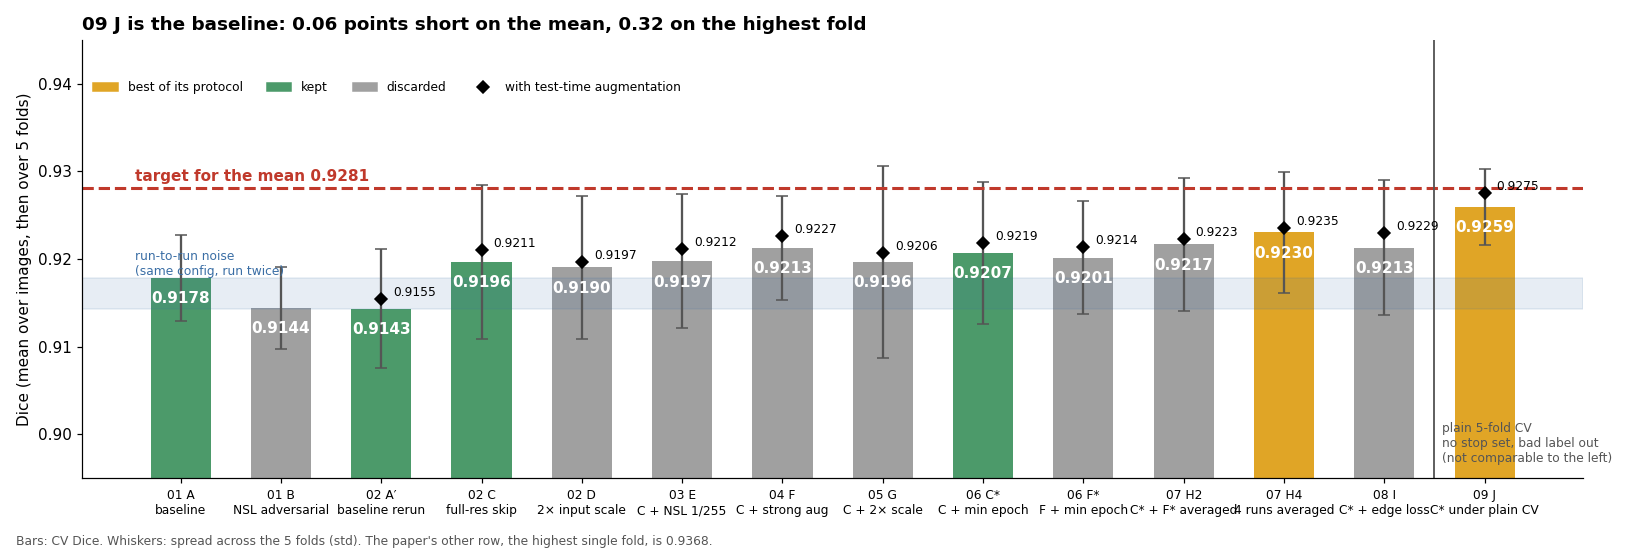
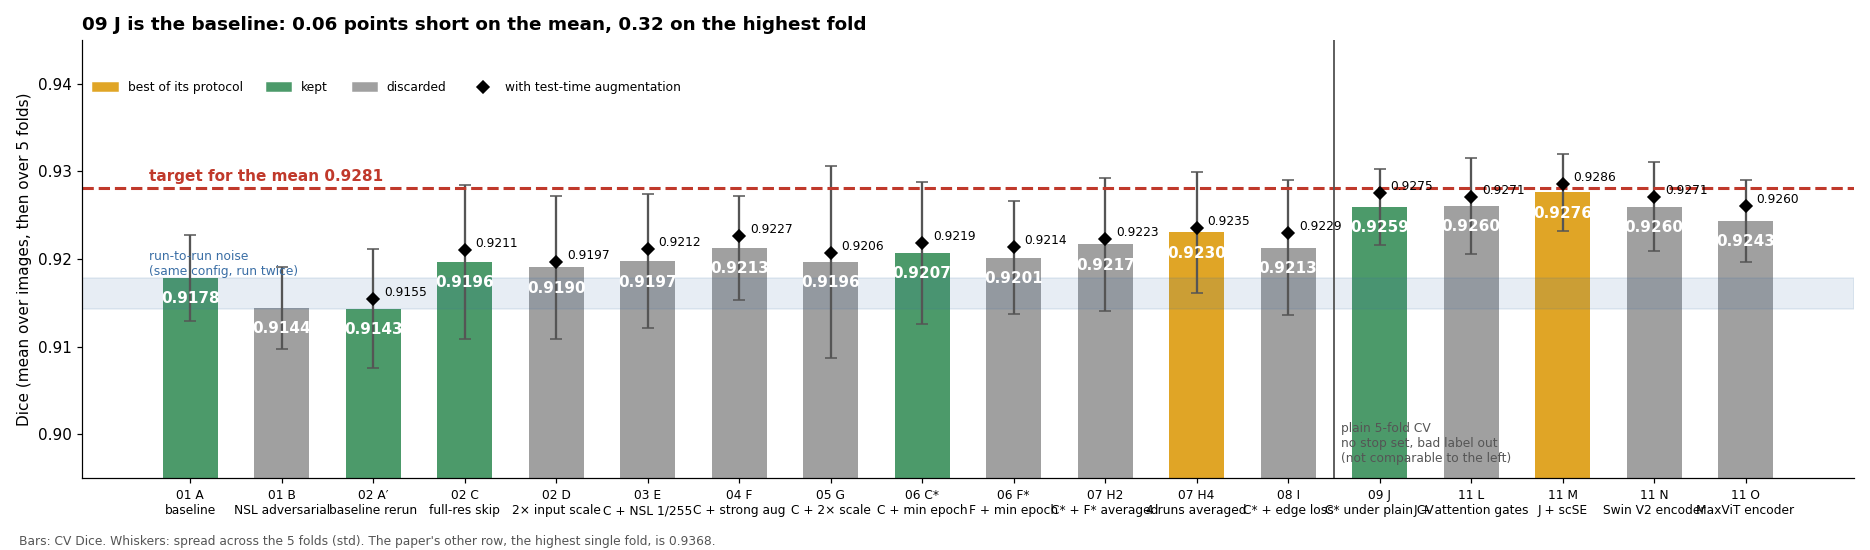
Close spec 11: no kind of attention beats J
Swin V2 encoder: TTA Dice 92.71 / highest 93.50. MaxViT encoder: 92.60 / 93.37.
With the gate and scSE arms, five attention set-ups sit between 92.60 and 92.86,
inside one luck band, so J stays the model. The progress chart now puts the
spec 11 arms with J under plain CV.

diff --git a/reports/make_figures.py b/reports/make_figures.py
@@ -24,7 +24,7 @@ OUT = ROOT / "reports"
 TARGET = 0.9368       # the paper's highest fold, the row the project is aimed at
 TARGET_MEAN = 0.9281  # the paper's mean of five folds
 RESCORES = ("s10-j-per-image",)  # scoring-only reruns of a model already in the charts
-PLAIN_CV = ("s09-plain-cv",)  # plain 5-fold CV, no stop set, bad label out; not comparable with the runs before it
+PLAIN_CV = ("s09-plain-cv", "s11-gate", "s11-scse", "s11-swinv2", "s11-maxvit")  # plain 5-fold CV, no stop set, bad label out; not comparable with the runs before it
 LABELS = {  # slug -> short name for plots
     "s01-base": "01 A\nbaseline",
     "s01-nsl": "01 B\nNSL adversarial",
@@ -40,6 +40,10 @@ LABELS = {  # slug -> short name for plots
     "s07-ens4": "07 H4\n4 runs averaged",
     "s08-hires-edge": "08 I\nC* + edge loss",
     "s09-plain-cv": "09 J\nC* under plain CV",
+    "s11-gate": "11 L\nJ + attention gates",
+    "s11-scse": "11 M\nJ + scSE",
+    "s11-swinv2": "11 N\nSwin V2 encoder",
+    "s11-maxvit": "11 O\nMaxViT encoder",
 }
 TYPES = {  # image_type key -> plain name
     "dark-gray/small": "Fluorescence, small",
@@ -73,7 +77,7 @@ def progress(runs):
     new = [r for r in runs if r["slug"] in PLAIN_CV]
     runs = old + new
     best = {max(g, key=tta)["slug"] for g in (old, new) if g}
-    fig, ax = plt.subplots(figsize=(15, 5))
+    fig, ax = plt.subplots(figsize=(17, 5))
     x = np.arange(len(runs))
     for i, r in enumerate(runs):
         cv = r["m"]["cv"]
@@ -94,7 +98,7 @@ def progress(runs):
         ax.axvline(len(old) - 0.5, color="#555", lw=1.2)
         ax.text(len(old) - 0.42, 0.8965, "plain 5-fold CV\nno stop set, bad label out\n(not comparable to the left)",
                 fontsize=8, color="#555", va="bottom")
-    current = new[-1] if new else max(old, key=tta)
+    current = next((r for r in new if r["row"]["status"] == "keep"), None) if new else max(old, key=tta)
     gap, gap_high = TARGET_MEAN - tta(current), TARGET - max(f["tta"]["dice"] for f in current["m"]["folds"])
     ax.set_xticks(x, [r["label"] for r in runs], fontsize=8)
     ax.set_ylim(0.895, 0.945)
@@ -164,7 +168,7 @@ def cost(runs):
         a1.scatter(m["minutes"], m["cv"]["dice"], s=m["peak_vram_gb"] * 25, color=GOLD if r["slug"] == "s06-hires-min30" else BLUE,
                    alpha=0.8)
         a1.annotate(r["label"].replace("\n", ": "), (m["minutes"], m["cv"]["dice"]), textcoords="offset points",
-                    xytext=(8, -3), fontsize=8)
+                    xytext=(-40, 9) if r["slug"] == "s11-gate" else (8, -3), fontsize=8)
     a1.set_xlabel("GPU minutes for all 5 folds (Kaggle T4)")
     a1.set_ylabel("CV Dice")
     a1.set_xlim(60, 400)
@@ -184,8 +188,8 @@ def cost(runs):
     a2.set_title("NSL (01 B, 03 E) bought robustness, not Dice", loc="left", weight="bold")
     a2.legend(frameon=False, fontsize=8, loc="upper right", ncol=2)
     a2.set_xticklabels([r["label"].split("\n")[0] for r in runs], fontsize=8)
-    fig.text(0.01, 0.005, "09 J is scored under plain 5-fold CV with the wrong label dropped, so its Dice does not "
-                          "compare with the rest; its cost does.", fontsize=8, color="#555")
+    fig.text(0.01, 0.005, "09 J and 11 L to O are scored under plain 5-fold CV with the wrong label dropped, so their Dice does not "
+                          "compare with the rest; their cost does.", fontsize=8, color="#555")
     fig.tight_layout(rect=(0, 0.035, 1, 1))
     fig.savefig(OUT / "5-cost-and-robustness.png")
 

diff --git a/specs/11-attention.md b/specs/11-attention.md
@@ -1,6 +1,6 @@
 # 11: Does a different kind of attention help the Swin-T U-Net?
 
-Status: running since 2026-10-17. Four arms, one Kaggle kernel each, two at a time (Kaggle allows two GPU sessions per account).
+Status: done 2026-10-21. No arm beats J; J stays the model. Four arms, one Kaggle kernel each, two at a time (Kaggle allows two GPU sessions per account).
 
 ## The model is settled
 
@@ -50,7 +50,14 @@ The first push of L and M (2026-10-17) waited about three days for a GPU while K
 | J (baseline) | `20261011-1a5ff70-s09-plain-cv` | 92.75 ± 0.40 | 93.36 | 93.16 | |
 | L, attention gates | `20261020-90abcd5-s11-gate` | 92.71 ± 0.50 | 93.56 | 93.20 | no change: −0.04 |
 | M, scSE | `20261020-90abcd5-s11-scse` | 92.86 ± 0.37 | 93.43 | 93.23 | no change: +0.11, inside the luck band |
+| N, Swin V2 | `20261020-90abcd5-s11-swinv2` | 92.71 ± 0.46 | 93.50 | 93.17 | no change: −0.04 |
+| O, MaxViT | `20261020-90abcd5-s11-maxvit` | 92.60 ± 0.44 | 93.37 | 93.04 | no change: −0.15 |
 
 - **M, scSE:** ahead of J on all five folds, by 0.05 to 0.19 points. That is too small to call, since a new seed alone moves J by up to 0.35. H&E photos, which the attention was meant to help, stayed where they were (89.76 against J's 89.85).
 - **L, attention gates:** behind J on four folds by about 0.1 and ahead on fold 4 by 0.20, which lifts the highest fold to 93.56, still 0.12 under the paper's 93.68. The mean does not move. The reference paper's decoder uses these gates; on our model they add nothing.
-- N, O: pending.
+- **N, Swin V2:** level with J (−0.04). Better on two folds, worse on three. It trained longer before peaking (epoch 39 to 56 against J's 31 to 37), so the closer match to our crop size did not speed it up either.
+- **O, MaxViT:** the lowest of the four (−0.15) and the heaviest (9.4 GB). Seeing the whole crop in every layer did not help find missed or invented nuclei; H&E went down (89.54). It was the most robust to FGSM noise (85.2 against J's 83.2), the one place it stood out.
+
+**What the four arms say together.** Five different attention set-ups (J and the four arms) land between 92.60 and 92.86 on the mean, a spread of 0.26, smaller than the 0.35 luck band. Every run's best fold is fold 4, between 93.36 and 93.56. Changing the attention, in the decoder or the encoder, does not move the score. That fits spec 10: most of what is left is outline width that differs between hand-drawn answers, and no model can learn it from the photo. No arm reached the target, so no second seed was run.
+
+Every arm's first fold took 75 to 83 minutes against 24 to 47 for the others, and J's first fold did not. The cause was not checked; it only costs time.

diff --git a/JOURNAL.md b/JOURNAL.md
@@ -215,3 +215,9 @@ not improve (89.76). The first push of L and M sat in Kaggle's GPU queue for thr
 Attention gates give TTA Dice 92.71 ± 0.50, highest fold 93.56, against J's 92.75 / 93.36: the mean is flat, fold 4
 gains 0.20 and the other four lose about 0.1. The gates the reference paper uses do nothing for our model. With M
 (+0.11), both decoder arms sit inside the luck band; N (Swin V2) and O (MaxViT) are running.
+
+## 2026-10-21: spec 11 arms N (Swin V2) and O (MaxViT), runs 20261020-90abcd5-s11-swinv2 and -maxvit; spec 11 done
+Swin V2 gives TTA Dice 92.71 / highest 93.50 and MaxViT 92.60 / 93.37, against J's 92.75 / 93.36. All five attention
+set-ups now sit between 92.60 and 92.86, inside one luck band, and all have their best fold on fold 4 (93.36 to 93.56).
+The kind of attention does not matter here. MaxViT was the most robust to FGSM (85.2), but no better on clean photos.
+J stays the model. The five runs differ in design, so averaging them (spec 07's ensemble code) is the obvious next try.
